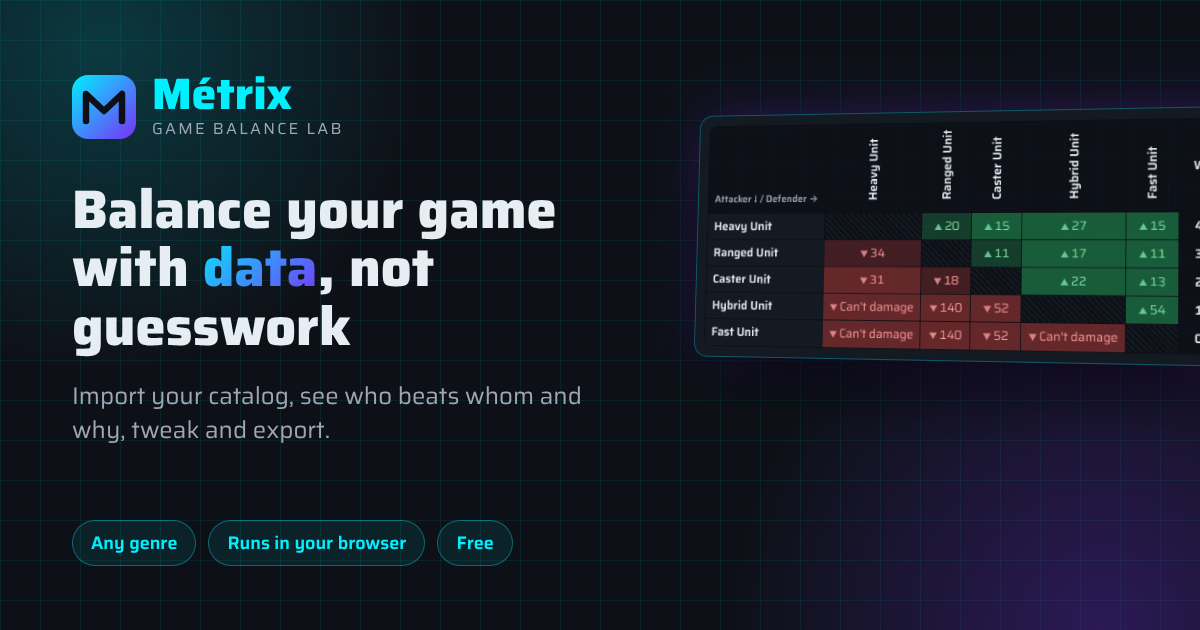
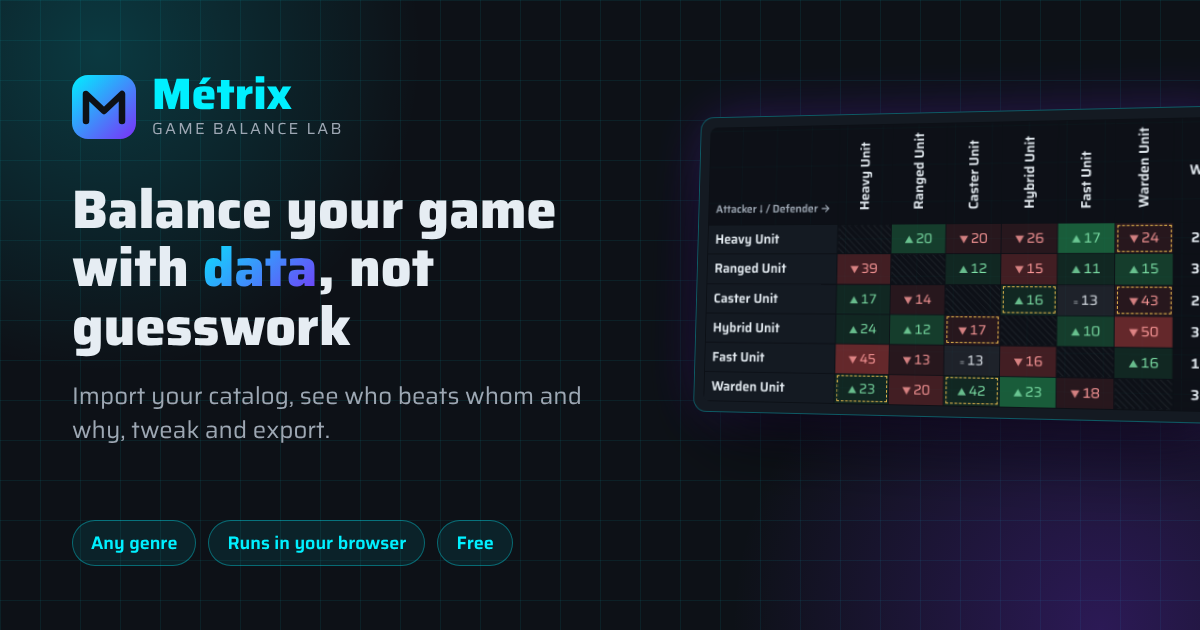
feat(core): balanced example template
The old example had a Heavy Unit that beat almost everything. The new
template has six units balanced as rock-paper-scissors:

- Heavy stands up to channel 1 but falls to channel 2; Warden is its
  mirror and wears hybrid armor.
- Ranged and Fast attack on channel 1, Caster on channel 2, Hybrid
  punishes one-sided armor.
- Records by hits to defeat range from 1-3 to 3-2; Fast is the cheapest
  with the worst record; two close fights show the "Close fight" mark.

A new test keeps the example balanced (no unit wins or loses every duel,
everyone can damage everyone, at least one close fight). README template,
Open Graph image and demo GIF updated.

Claude-Session: https://claude.ai/code/session_01568879zp3iRW6Ddt9V2MtH

diff --git a/packages/core/test/template.test.ts b/packages/core/test/template.test.ts
@@ -1,0 +1,41 @@
+/**
+ * @file Guards the teaching value of the official template: the example must stay balanced,
+ * so a designer opening it sees varied results instead of one unit that wins everything.
+ */
+import { describe, expect, it } from 'vitest';
+import { CSV_TEMPLATE, hitsMargin, importEntities, matchupMatrix, winnerBy } from '../src';
+
+describe('CSV template example', () => {
+  const { entities, channels } = importEntities(CSV_TEMPLATE);
+  const grid = matchupMatrix(entities, channels);
+  // Win-loss record of each unit by hits to defeat, ignoring its duel against itself.
+  const records = grid.map((row, index) => {
+    const duels = row.filter((_result, column) => column !== index);
+    return {
+      id: entities[index]?.id,
+      wins: duels.filter((result) => winnerBy(result, 'hits') === 'attacker').length,
+      losses: duels.filter((result) => winnerBy(result, 'hits') === 'defender').length,
+    };
+  });
+
+  it('has no unit that wins or loses every duel', () => {
+    for (const record of records) {
+      expect(record.wins, `${record.id} wins`).toBeGreaterThan(0);
+      expect(record.wins, `${record.id} wins`).toBeLessThan(entities.length - 1);
+      expect(record.losses, `${record.id} losses`).toBeLessThan(entities.length - 1);
+    }
+  });
+
+  it('lets every unit damage every other one', () => {
+    for (const row of grid) {
+      for (const result of row) {
+        if (result.attackerId !== result.defenderId) expect(result.forward.damage).toBeGreaterThan(0);
+      }
+    }
+  });
+
+  it('includes at least one close fight to show what it looks like', () => {
+    const close = grid.flat().filter((result) => Math.abs(hitsMargin(result) ?? 0) === 1);
+    expect(close.length).toBeGreaterThan(0);
+  });
+});

diff --git a/packages/core/src/csv/template.ts b/packages/core/src/csv/template.ts
@@ -4,16 +4,24 @@
 
 /**
  * Official CSV template: header plus invented, genre-neutral example rows, one per kind of attacker.
- * Two damage channels, 1 and 2, plus hybrid columns. Users rename the channels after their game
+ * Two damage channels, 1 and 2, plus hybrid columns.
+ *
+ * The example is deliberately balanced as rock-paper-scissors so it teaches how to read results:
+ * - Heavy stands up to channel 1 attacks but falls to channel 2; Warden is its mirror and also
+ *   wears hybrid armor.
+ * - Ranged and Fast attack on channel 1, Caster on channel 2, Hybrid punishes one-sided armor.
+ * - Every unit wins some duels and loses others; Fast is the cheapest and has the worst record.
+ * - Warden vs Heavy and Caster vs Hybrid are close fights (one hit apart). Users rename the channels after their game
  * (e.g. `atk:physical`). Every value is a whole number. Offered in the web app to download or copy.
  */
 export const CSV_TEMPLATE = [
   'id,name,category,cost,hp,atk:1,def:1,atk:2,def:2,atk:hybrid:1,atk:hybrid:2,def:hybrid:1,def:hybrid:2,tag:role',
-  'heavy,Heavy Unit,unit,48,680,55,48,0,40,,,10,10,tank',
-  'ranged,Ranged Unit,unit,45,560,68,26,0,30,,,,,ranged',
-  'caster,Caster Unit,unit,46,520,0,20,62,35,,,,,caster',
-  'hybrid,Hybrid Unit,unit,47,600,0,32,0,34,30,25,,,hybrid',
-  'fast,Fast Unit,unit,42,480,30,22,0,24,,,,,striker',
+  'heavy,Heavy Unit,unit,48,620,34,32,0,8,,,,,tank',
+  'ranged,Ranged Unit,unit,45,420,48,12,0,14,,,,,ranged',
+  'caster,Caster Unit,unit,46,420,0,12,46,26,,,,,caster',
+  'hybrid,Hybrid Unit,unit,47,460,0,16,0,16,30,34,,,hybrid',
+  'fast,Fast Unit,unit,40,390,46,10,0,14,,,,,striker',
+  'warden,Warden Unit,unit,49,600,0,8,36,32,,,10,10,guardian',
   '',
 ].join('\n');
 

diff --git a/packages/core/test/importEntities.test.ts b/packages/core/test/importEntities.test.ts
@@ -16,22 +16,23 @@ describe('importEntities', () => {
       { key: '1', label: 'Channel 1' },
       { key: '2', label: 'Channel 2' },
     ]);
-    expect(result.entities).toHaveLength(5);
-    const [heavy, , , hybrid] = result.entities;
+    expect(result.entities).toHaveLength(6);
+    const [heavy, , , hybrid, , warden] = result.entities;
     expect(heavy).toEqual({
       id: 'heavy',
       name: 'Heavy Unit',
       category: 'unit',
       cost: 48,
-      hp: 680,
-      atk: { '1': 55, '2': 0 },
-      def: { '1': 48, '2': 40 },
-      hybridDef: { '1': 10, '2': 10 },
+      hp: 620,
+      atk: { '1': 34, '2': 0 },
+      def: { '1': 32, '2': 8 },
+      hybridDef: {},
       tags: { role: 'tank' },
       stats: {},
       extra: {},
     });
-    expect(hybrid?.hybridAtk).toEqual({ '1': 30, '2': 25 });
+    expect(hybrid?.hybridAtk).toEqual({ '1': 30, '2': 34 });
+    expect(warden?.hybridDef).toEqual({ '1': 10, '2': 10 });
     expect(result.layout).toEqual({ delimiter: ',', headers: CSV_TEMPLATE.split('\n')[0]?.split(',') });
   });
 

diff --git a/README.md b/README.md
@@ -24,15 +24,16 @@ Everything runs locally in your browser. Your data is never uploaded and there i
 
 ### 1. Get the template
 
-Open Métrix and choose **Download template** or **Copy template**. To look around before preparing your own file, choose **Try with example data**. The template is a CSV file with the header and one invented example of each kind of attacker:
+Open Métrix and choose **Download template** or **Copy template**. To look around before preparing your own file, choose **Try with example data**. The template is a CSV file with the header and six invented example units, balanced like rock-paper-scissors so every unit wins some duels and loses others:
 
 ```csv
 id,name,category,cost,hp,atk:1,def:1,atk:2,def:2,atk:hybrid:1,atk:hybrid:2,def:hybrid:1,def:hybrid:2,tag:role
-heavy,Heavy Unit,unit,48,680,55,48,0,40,,,10,10,tank
-ranged,Ranged Unit,unit,45,560,68,26,0,30,,,,,ranged
-caster,Caster Unit,unit,46,520,0,20,62,35,,,,,caster
-hybrid,Hybrid Unit,unit,47,600,0,32,0,34,30,25,,,hybrid
-fast,Fast Unit,unit,42,480,30,22,0,24,,,,,striker
+heavy,Heavy Unit,unit,48,620,34,32,0,8,,,,,tank
+ranged,Ranged Unit,unit,45,420,48,12,0,14,,,,,ranged
+caster,Caster Unit,unit,46,420,0,12,46,26,,,,,caster
+hybrid,Hybrid Unit,unit,47,460,0,16,0,16,30,34,,,hybrid
+fast,Fast Unit,unit,40,390,46,10,0,14,,,,,striker
+warden,Warden Unit,unit,49,600,0,8,36,32,,,10,10,guardian
 ```
 
 ### 2. Fill it with your catalog
